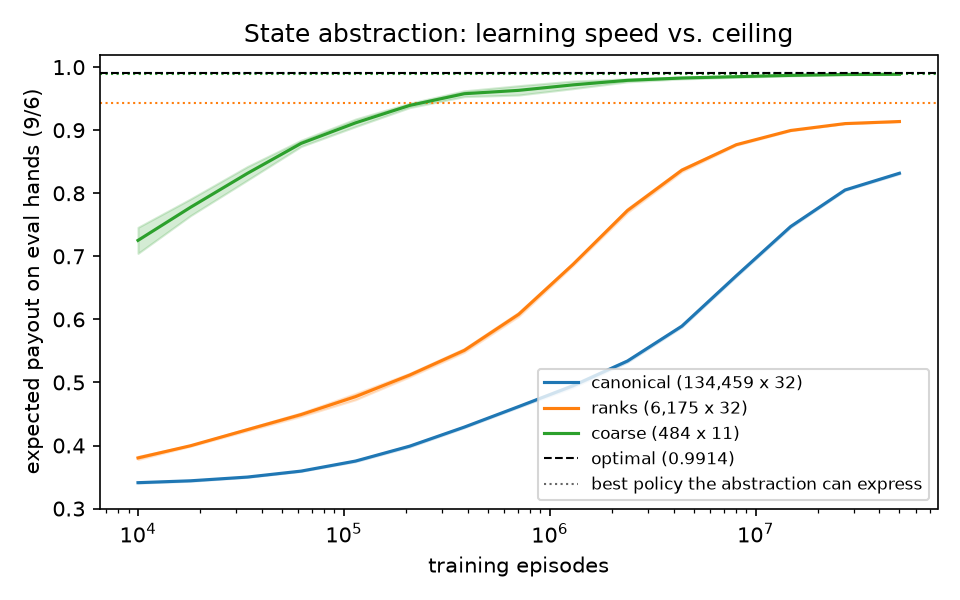
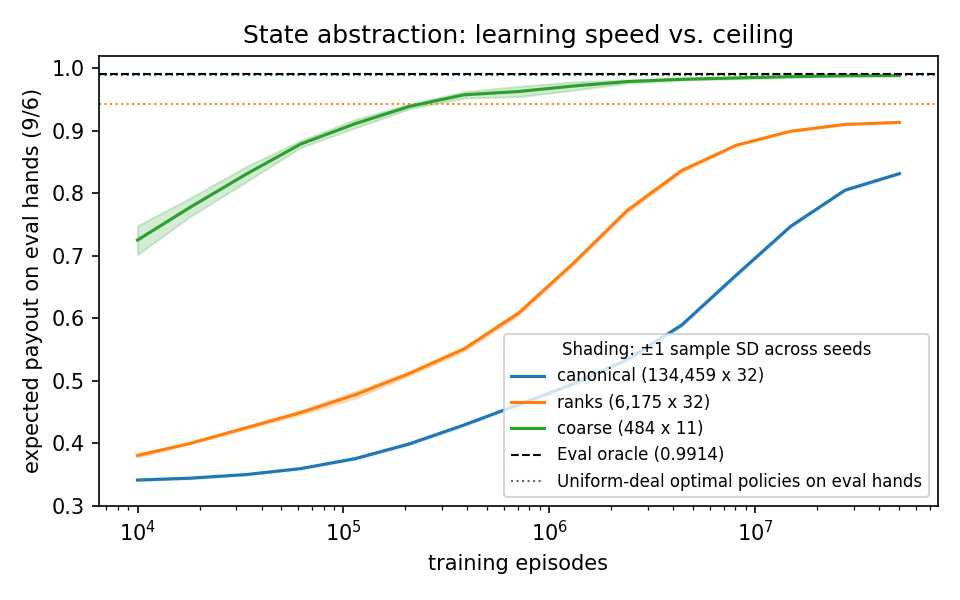
Correct plot labels

diff --git a/task4_experiments.py b/task4_experiments.py
@@ -190,23 +190,24 @@ def plot(runs, exact):
             return None
         x = np.array([p["episodes"] for p in group[0]["curve"]])
         y = np.array([[p["eval_mean"] for p in r["curve"]] for r in group])
-        return x, y.mean(0), y.std(0), len(group)
+        seed_sd = y.std(axis=0, ddof=1) if len(group) > 1 else np.zeros_like(x, dtype=float)
+        return x, y.mean(axis=0), seed_sd
 
     fig, ax = plt.subplots(figsize=(6.4, 4))
     for name in A.ABSTRACTIONS:
         c = curves(name, "job_9_6")
         if c is None:
             continue
-        x, m, s, k = c
+        x, m, s = c
         info = exact["abstractions"][name]
         ax.plot(x, m, color=colors[name], label=f"{name} ({info['n_states']:,} x {info['n_actions']})")
         ax.fill_between(x, m - s, m + s, color=colors[name], alpha=0.2)
         ax.axhline(info["ceiling_eval_mean"], color=colors[name], ls=":", lw=1)
-    ax.axhline(opt, color="k", ls="--", lw=1, label=f"optimal ({opt:.4f})")
-    ax.plot([], [], color="0.4", ls=":", lw=1, label="best policy the abstraction can express")
+    ax.axhline(opt, color="k", ls="--", lw=1, label=f"Eval oracle ({opt:.4f})")
+    ax.plot([], [], color="0.4", ls=":", lw=1, label="Uniform-deal optimal policies on eval hands")
     ax.set(xscale="log", xlabel="training episodes", ylabel="expected payout on eval hands (9/6)",
            title="State abstraction: learning speed vs. ceiling", ylim=(0.3, 1.02))
-    ax.legend(loc="lower right", fontsize=8)
+    ax.legend(loc="lower right", fontsize=8, title="Shading: ±1 sample SD across seeds", title_fontsize=8)
     fig.tight_layout()
     fig.savefig(os.path.join(FIGURES, "task4_abstraction_curves.png"), dpi=150)
     plt.close(fig)
@@ -219,18 +220,18 @@ def plot(runs, exact):
             c = curves("coarse", reward)
             if c is None:
                 continue
-            x, m, s, k = c
+            x, m, s = c
             ax.plot(x, m, color=colors[reward], label=reward, marker=".", ms=4)
             ax.fill_between(x, m - s, m + s, color=colors[reward], alpha=0.2)
-        ax.axhline(opt, color="k", ls="--", lw=1, label="optimal")
+        ax.axhline(opt, color="k", ls="--", lw=1, label="Eval oracle")
         ax.axhline(exact["abstractions"]["coarse"]["ceiling_eval_mean"], color="C2", ls=":", lw=1,
-                   label="coarse ceiling")
+                   label="Uniform-deal optimal coarse policy on eval hands")
         ax.set(xscale="log", xlabel="training episodes", ylim=ylim)
         if xmin:
             ax.set_xlim(left=xmin)
     axes[0].set(ylabel="expected payout on eval hands (9/6)", title="coarse abstraction, all rewards")
     axes[1].set(title="zoom: 9/6 vs. clipped vs. log rewards")
-    axes[0].legend(loc="lower right", fontsize=8)
+    axes[0].legend(loc="lower right", fontsize=8, title="Shading: ±1 sample SD across seeds", title_fontsize=8)
     fig.suptitle("Training reward vs. score on the 9/6 table")
     fig.tight_layout()
     fig.savefig(os.path.join(FIGURES, "task4_reward_curves.png"), dpi=150)
